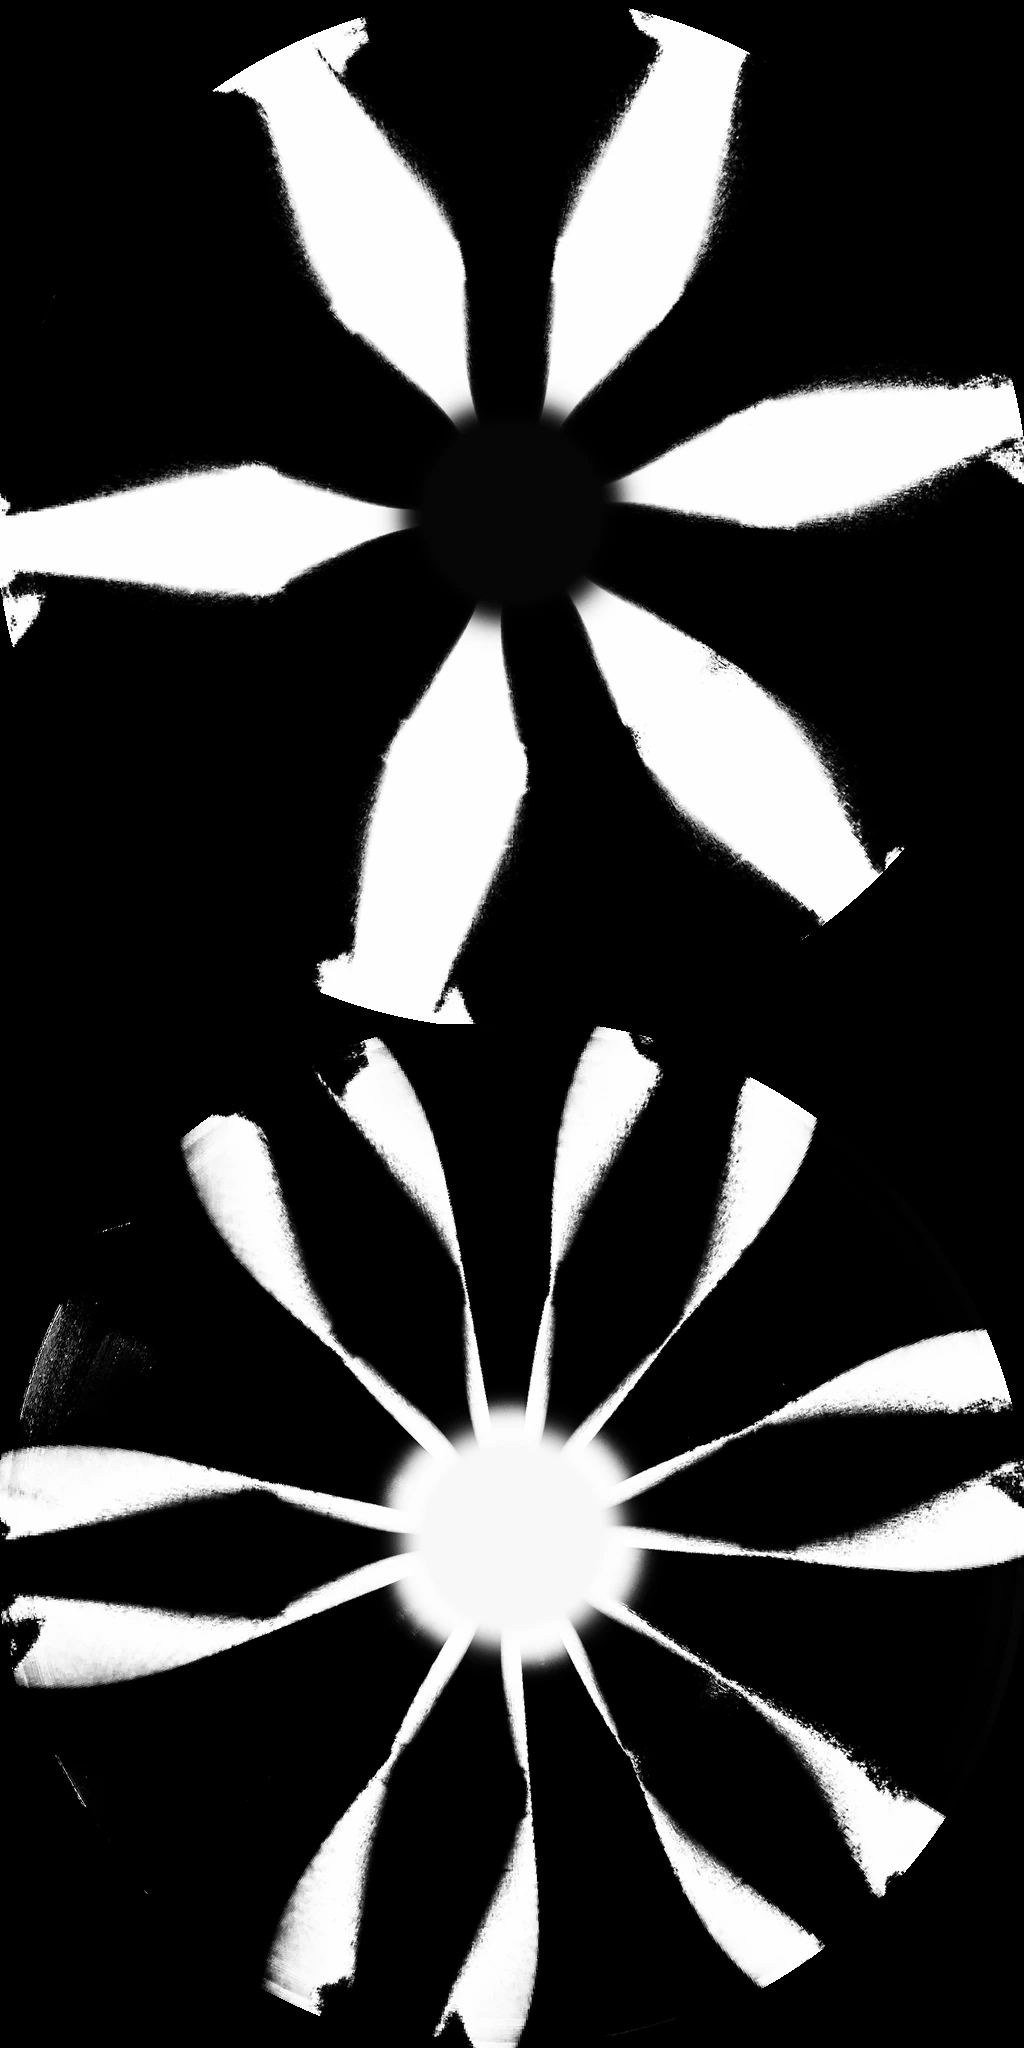
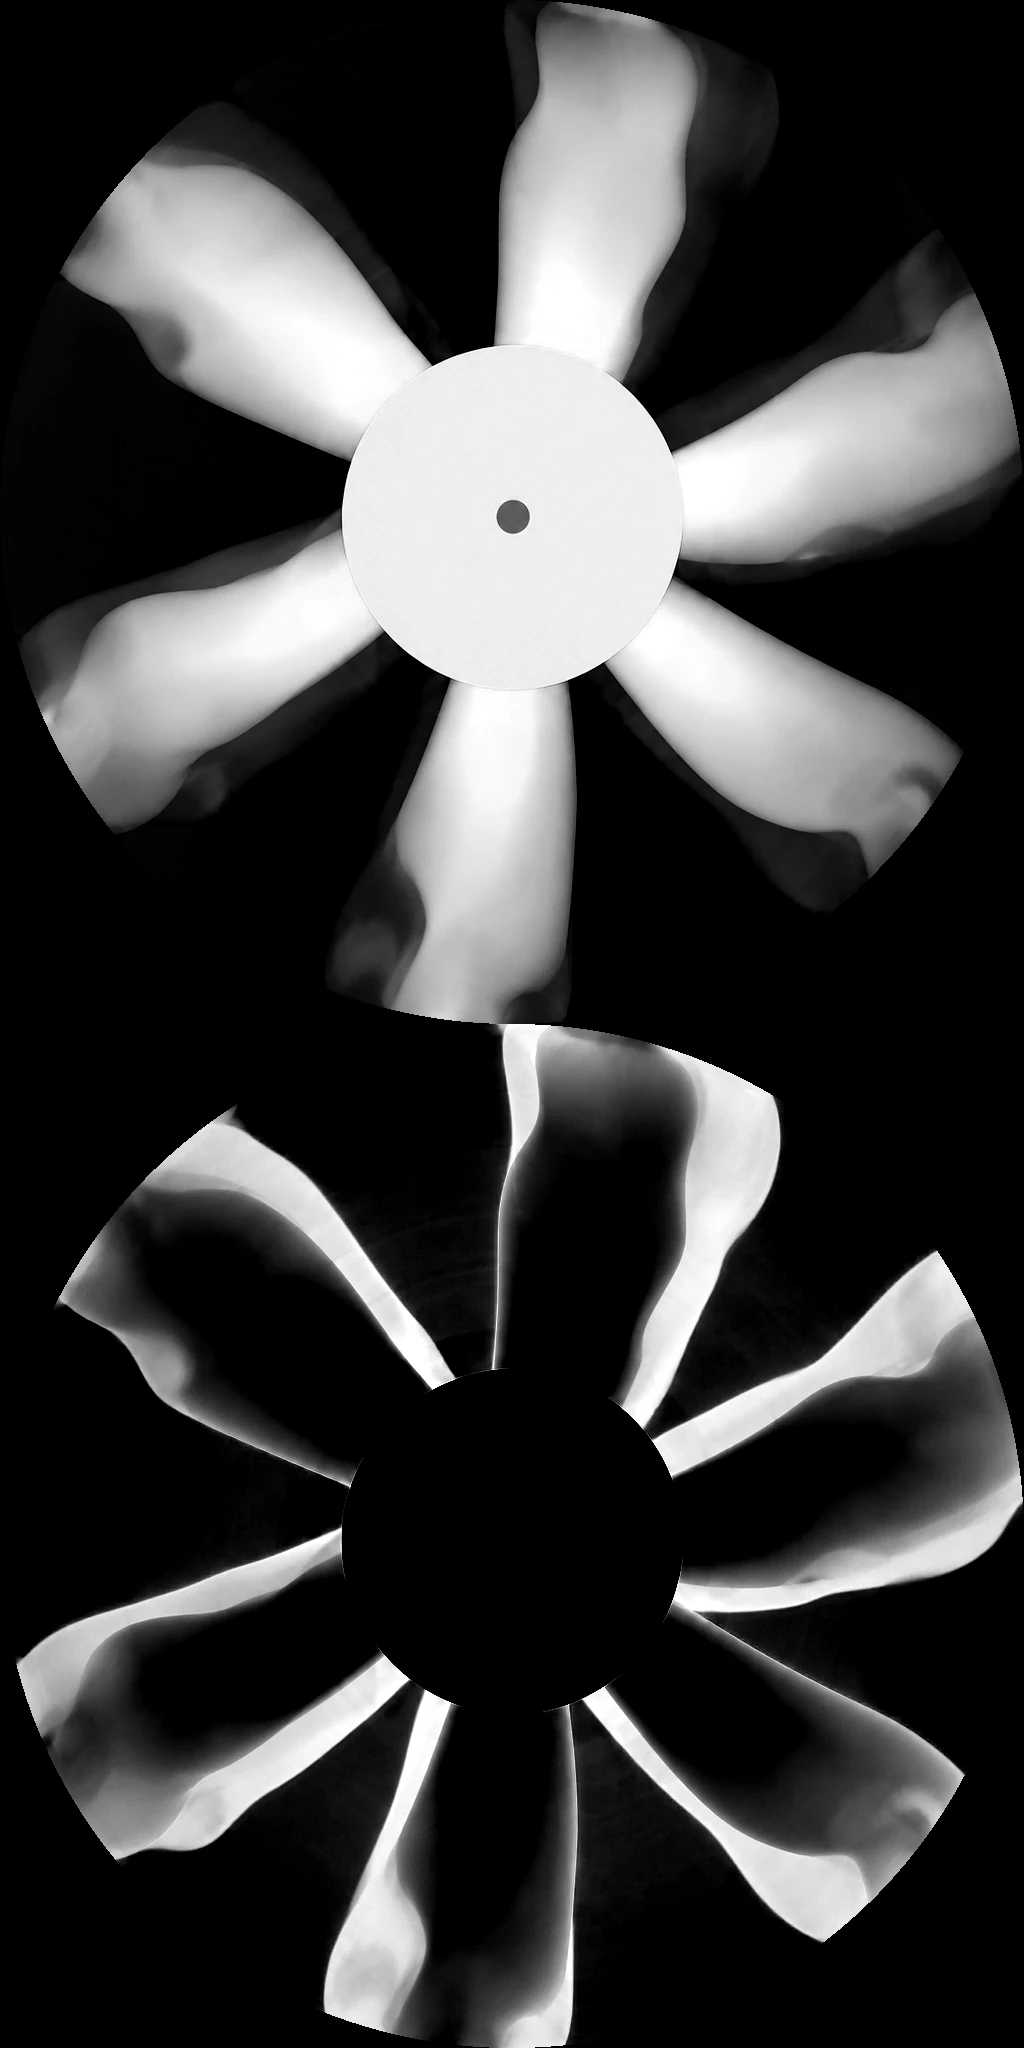
feat: replace pinwheel-02 with a clean photo-variant pinwheel
The old pinwheel-02 came from a VinylLab master and looked soft with
jagged petal edges. The new one (pink base, yellow-orange petals with a
red rim) is a photo variant, colour-extracted; the id stays so existing
specs keep working.

diff --git a/tools/bake-vinyl-masks.py b/tools/bake-vinyl-masks.py
@@ -48,7 +48,6 @@ CURATED = {
     'starburst-06': {'role': 'effect', 'palette': 'accent'},
     'blob-01': {'role': 'layout', 'palette': 'accent'},
     'blob-03': {'role': 'layout', 'palette': 'accent'},
-    'pinwheel-02': {'role': 'layout', 'palette': 'accent', 'crop': 0.92},
     'ripple-01': {'role': 'layout', 'palette': 'tonal', 'status': 'review'},
     'swirl-02': {'role': 'layout', 'palette': 'accent', 'status': 'review'},
     # Smoke: photo variants of unlicensed references, colour-extracted (docs/vinyl-mask-image-to-image-workflow.md
@@ -135,6 +134,11 @@ CURATED = {
                                'master': 'output/texture-gen/library/starburst-07', 'reference': 'https://www.pinterest.com/pin/981573681287214589/',
[2 lines of base64/hex data omitted]
+    'pinwheel-02': {'role': 'layout', 'palette': 'accent', 'layers': ['layer1.png', 'layer2.png'], 'base': '#e1087c', 'colors': ['#ffc000', '#ec0f16'],
+                   'source': {'kind': 'unlicensed-reference', 'operation': 'photo variant + colour extraction', 'date': '2026-10-21',
+                              'master': 'output/texture-gen/library/pinwheel-02', 'reference': 'https://www.pinterest.com/pin/91479436177557268/',
[2 lines of base64/hex data omitted]
 }
 
 # meta.disc_frac is the disc diameter as a fraction of the master's width. The masters extend the
